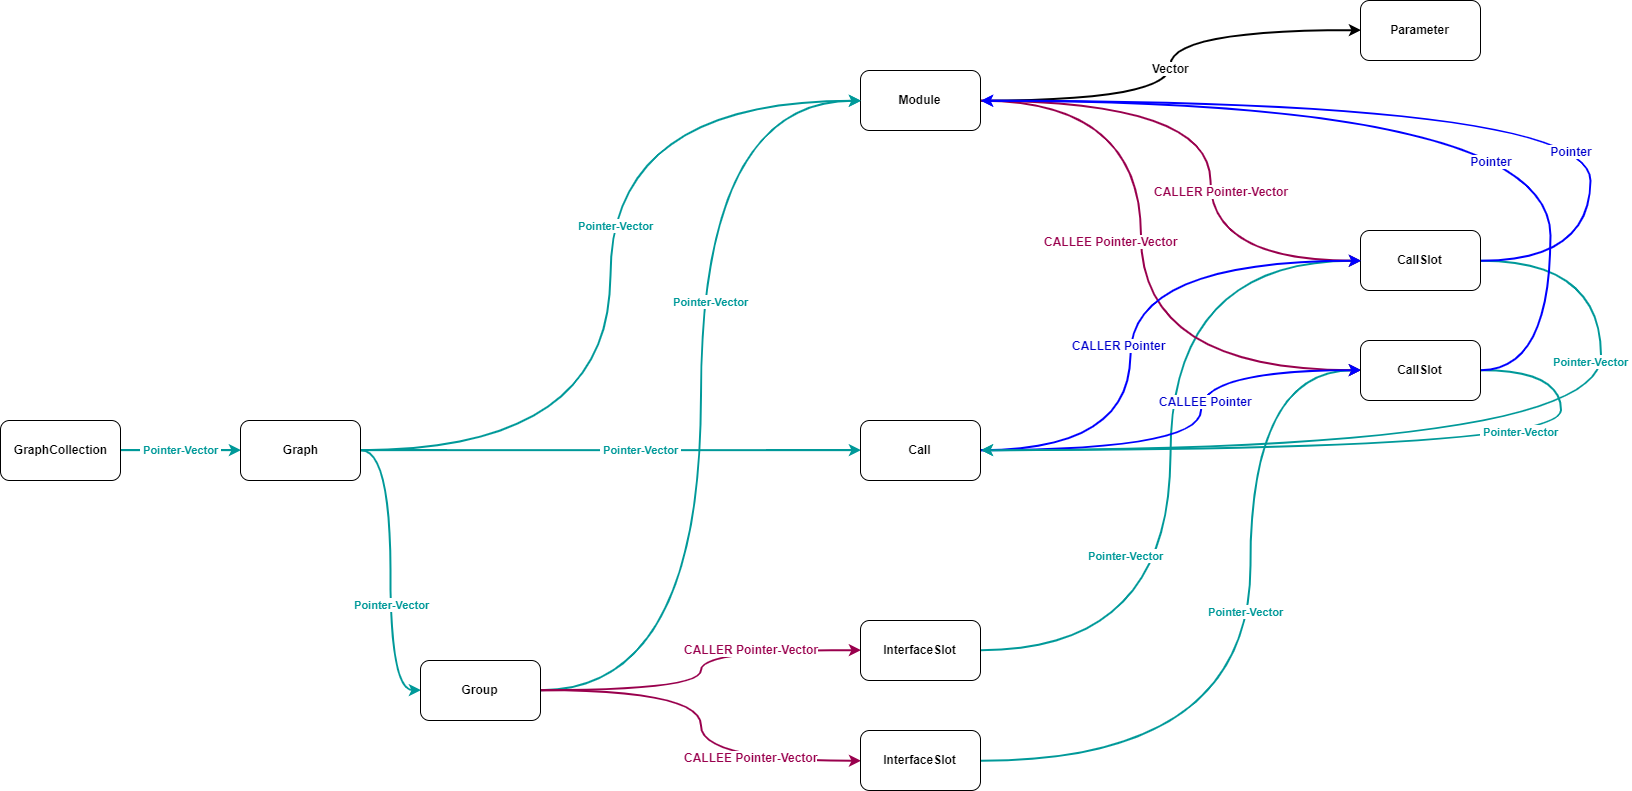
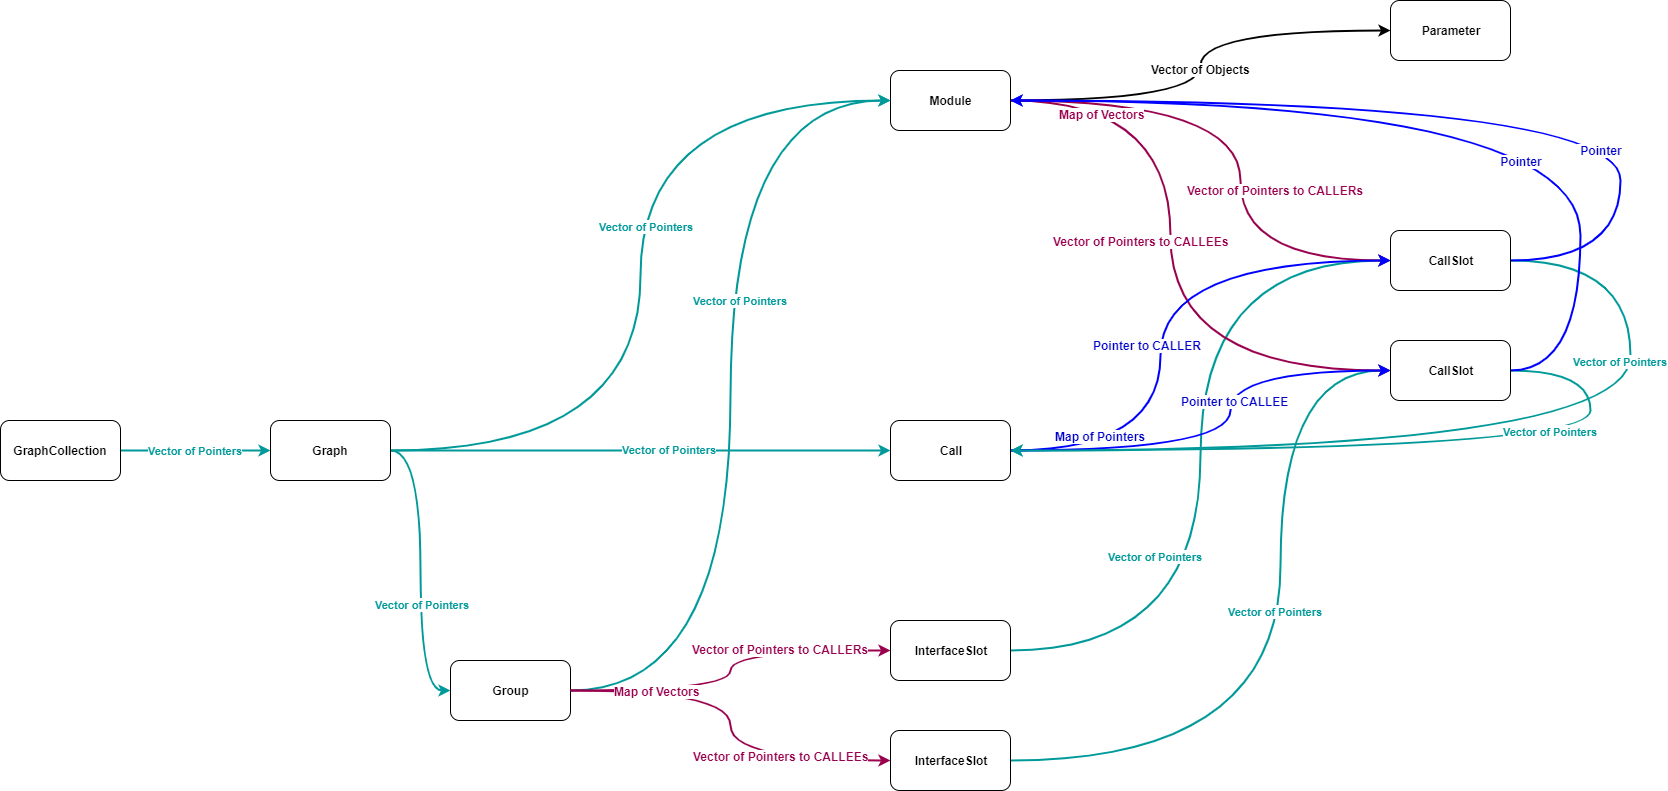
reduced redundant header dependencies, updated readme images

diff --git a/plugins/gui/src/graph/ParameterGroupsPresentation.cpp b/plugins/gui/src/graph/ParameterGroupsPresentation.cpp
@@ -1,12 +1,12 @@
 /*
- * ParameterGroups.cpp
+ * ParameterGroupsPresentation.cpp
  *
  * Copyright (C) 2020 by Universitaet Stuttgart (VIS).
  * Alle Rechte vorbehalten.
  */
 
 #include "stdafx.h"
-#include "ParameterGroups.h"
+#include "ParameterGroupsPresentation.h"
 
 
 using namespace megamol;
@@ -14,7 +14,7 @@ using namespace megamol::core;
 using namespace megamol::gui;
 
 
-megamol::gui::ParameterGroups::ParameterGroups(void)
+megamol::gui::ParameterGroupsPresentation::ParameterGroupsPresentation(void)
     : group_widget_ids()
     , tooltip()
     , speed_knob_pos(ImVec2(0.0f, 0.0f))
@@ -37,10 +37,10 @@ megamol::gui::ParameterGroups::ParameterGroups(void)
 }
 
 
-megamol::gui::ParameterGroups::~ParameterGroups(void) {}
+megamol::gui::ParameterGroupsPresentation::~ParameterGroupsPresentation(void) {}
 
 
-bool megamol::gui::ParameterGroups::PresentGUI(megamol::gui::ParamVector_t& inout_params,
+bool megamol::gui::ParameterGroupsPresentation::PresentGUI(megamol::gui::ParamVector_t& inout_params,
     const std::string& in_module_fullname, const std::string& in_search, vislib::math::Ternary in_extended,
     bool in_indent, megamol::gui::ParameterPresentation::WidgetScope in_scope,
     const std::shared_ptr<TransferFunctionEditor> in_external_tf_editor, bool* out_open_external_tf_editor) {
@@ -199,7 +199,7 @@ bool megamol::gui::ParameterGroups::PresentGUI(megamol::gui::ParamVector_t& inou
 }
 
 
-bool megamol::gui::ParameterGroups::ParameterGroupGUIStateToJSON(
+bool megamol::gui::ParameterGroupsPresentation::ParameterGroupGUIStateToJSON(
     nlohmann::json& inout_json, const std::string& module_fullname) {
 
     for (auto& group_widget_id : group_widget_ids) {
@@ -214,7 +214,7 @@ bool megamol::gui::ParameterGroups::ParameterGroupGUIStateToJSON(
 }
 
 
-bool megamol::gui::ParameterGroups::ParameterGroupGUIStateFromJSONString(
+bool megamol::gui::ParameterGroupsPresentation::ParameterGroupGUIStateFromJSONString(
     const std::string& in_json_string, const std::string& module_fullname) {
 
     for (auto& group_widget_id : group_widget_ids) {
@@ -229,7 +229,7 @@ bool megamol::gui::ParameterGroups::ParameterGroupGUIStateFromJSONString(
 }
 
 
-void megamol::gui::ParameterGroups::draw_parameter(megamol::gui::Parameter& inout_param,
+void megamol::gui::ParameterGroupsPresentation::draw_parameter(megamol::gui::Parameter& inout_param,
     const std::string& in_module_fullname, const std::string& in_search,
     megamol::gui::ParameterPresentation::WidgetScope in_scope,
     const std::shared_ptr<TransferFunctionEditor> in_external_tf_editor, bool* out_open_external_tf_editor) {
@@ -267,8 +267,8 @@ void megamol::gui::ParameterGroups::draw_parameter(megamol::gui::Parameter& inou
 }
 
 
-void megamol::gui::ParameterGroups::draw_grouped_parameters(const std::string& in_group_name, ParamPtrVector_t& params,
-    const std::string& in_module_fullname, const std::string& in_search,
+void megamol::gui::ParameterGroupsPresentation::draw_grouped_parameters(const std::string& in_group_name,
+    ParamPtrVector_t& params, const std::string& in_module_fullname, const std::string& in_search,
     megamol::gui::ParameterPresentation::WidgetScope in_scope,
     const std::shared_ptr<TransferFunctionEditor> in_external_tf_editor, bool* out_open_external_tf_editor) {
 
@@ -297,7 +297,7 @@ void megamol::gui::ParameterGroups::draw_grouped_parameters(const std::string& i
 }
 
 
-bool megamol::gui::ParameterGroups::group_widget_animation(ParamPtrVector_t& params,
+bool megamol::gui::ParameterGroupsPresentation::group_widget_animation(ParamPtrVector_t& params,
     megamol::core::param::AbstractParamPresentation::Presentation presentation,
     megamol::gui::ParameterPresentation::WidgetScope in_scope) {
 

diff --git a/plugins/gui/src/graph/ParameterGroupsPresentation.h b/plugins/gui/src/graph/ParameterGroupsPresentation.h
@@ -1,5 +1,5 @@
 /*
- * ParameterGroups.h
+ * ParameterGroupsPresentation.h
  *
  * Copyright (C) 2020 by Universitaet Stuttgart (VIS).
  * Alle Rechte vorbehalten.
@@ -26,12 +26,12 @@ namespace gui {
 /** ************************************************************************
  * Defines parameter widget groups depending on parameter namespaces.
  */
-class ParameterGroups {
+class ParameterGroupsPresentation {
 public:
     // FUCNTIONS --------------------------------------------------------------
 
-    ParameterGroups(void);
-    ~ParameterGroups(void);
+    ParameterGroupsPresentation(void);
+    ~ParameterGroupsPresentation(void);
 
     bool PresentGUI(megamol::gui::ParamVector_t& inout_params, const std::string& in_module_fullname,
         const std::string& in_search, vislib::math::Ternary in_extended, bool in_indent,

diff --git a/plugins/gui/src/widgets/WidgetPicking_gl.cpp b/plugins/gui/src/widgets/WidgetPicking_gl.cpp
@@ -311,7 +311,7 @@ void megamol::gui::PickableTriangle::Draw(
     unsigned int id, glm::vec2 pixel_dir, glm::vec2 vp_dim, ManipVector& pending_manipulations) {
 
     // Shader data
-    float depth = -0.9996f; /// <=== !!!
+    float depth = -0.9996f; /// <=== DEBUG !!!
     glm::mat4 ortho = glm::ortho(0.0f, vp_dim.x, 0.0f, vp_dim.y, -1.0f, 1.0f);
     glm::vec3 dir0 = glm::vec3(this->pixel_direction.x, this->pixel_direction.y, depth);
     glm::vec3 dir1 = glm::vec3(dir0.y / 2.0f, -dir0.x / 2.0f, depth);

diff --git a/plugins/gui/src/graph/ModulePresentation.h b/plugins/gui/src/graph/ModulePresentation.h
@@ -14,8 +14,7 @@
 #include "widgets/RenamePopUp.h"
 
 #include "CallSlot.h"
-#include "Parameter.h"
-#include "ParameterGroups.h"
+#include "ParameterGroupsPresentation.h"
 
 
 namespace megamol {
@@ -45,7 +44,7 @@ public:
     bool label_visible;
     // Relative position without considering canvas offset and zooming
     ImVec2 position;
-    ParameterGroups param_groups;
+    ParameterGroupsPresentation param_groups;
 
     // FUNCTIONS --------------------------------------------------------------
 

diff --git a/plugins/gui/src/GUIWindows.h b/plugins/gui/src/GUIWindows.h
@@ -25,7 +25,6 @@
 #include "CorporateWhiteStyle.h"
 #include "FileUtils.h"
 #include "WindowCollection.h"
-#include "graph/GraphCollection.h"
 #include "widgets/FileBrowserWidget.h"
 #include "widgets/HoverToolTip.h"
 #include "widgets/MinimalPopUp.h"

diff --git a/plugins/gui/src/graph/Group.h b/plugins/gui/src/graph/Group.h
@@ -11,10 +11,6 @@
 
 #include "GroupPresentation.h"
 
-#include "Call.h"
-#include "InterfaceSlot.h"
-#include "Module.h"
-
 
 namespace megamol {
 namespace gui {

diff --git a/plugins/gui/src/graph/Graph.h b/plugins/gui/src/graph/Graph.h
@@ -11,9 +11,7 @@
 
 #include "GraphPresentation.h"
 
-#include "Call.h"
 #include "Group.h"
-#include "Module.h"
 
 #include "vislib/math/Ternary.h"
 

diff --git a/plugins/gui/src/graph/Module.h b/plugins/gui/src/graph/Module.h
@@ -11,9 +11,6 @@
 
 #include "ModulePresentation.h"
 
-#include "CallSlot.h"
-#include "Parameter.h"
-
 
 namespace megamol {
 namespace gui {
